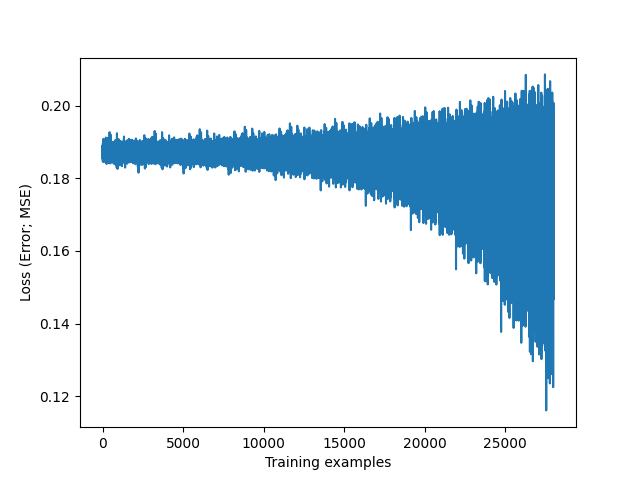
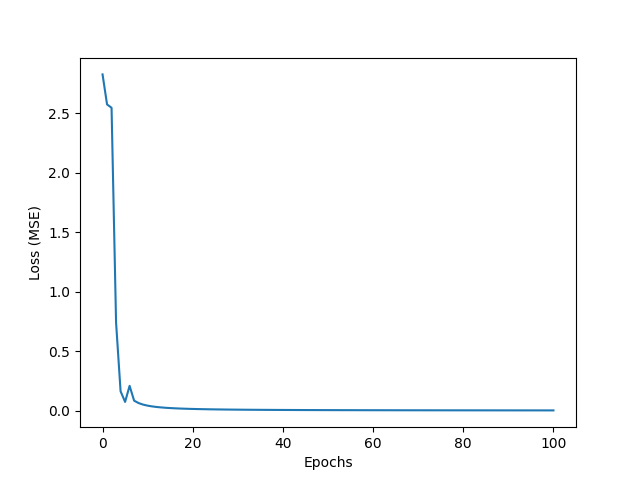
SNAPSHOT WORKING MODEL

diff --git a/Project 1/network_structures.py b/Project 1/network_structures.py
@@ -7,39 +7,7 @@ import numpy as np
 import matplotlib.pyplot as plt
 
 from nn_functions import d_cross_entropy, d_identity, d_mse, d_relu, d_sigmoid, d_tanh
-from picture_generator import PictureGenerator
-np.random.seed(123)
 
-x1 = 0.4
-x2 = 0.1
-x3 = 0.8
-
-y1 = 0.4
-y2 = 0.3
-
-z1 = 0.4
-
-X = np.array([x1,x2,x3]).reshape(3,1)
-Y = np.array([y1,y2]).reshape(2,1)
-Z = np.array([z1]).reshape(1,1)
-
-v11 = 0.1
-v12 = 0.2
-v21 = 0.5
-v22 = 0.4
-v31 = 0.3
-v32 = 0.2
-
-Y_weights = np.array([
-    [v11, v12],
-    [v21, v22],
-    [v31, v32]
-])
-
-w11 = 0.2
-w21 = 0.1
-
-Z_weights = np.array([w11, w21]).reshape(2,1)
 
 # Dict containing the mappings from functions to their derivatives
 function_map = {
@@ -93,9 +61,9 @@ class Layer:
         activations = self.a_func(output)
         # Check if we need to expand the dimensions of the results
         if len(activations.shape) == 1:
-            activations = activations[:,np.newaxis]
+            activations = activations[:, np.newaxis]
         if len(node_values.shape) == 1:
-            node_values = node_values[:,np.newaxis]
+            node_values = node_values[:, np.newaxis]
         # Now store the values for use in backprop
         self.activations, self.prv_layer_inputs = activations, node_values
         return activations
@@ -142,12 +110,12 @@ class Layer:
         """
         diag_J_sum = self.da_func(self.activations[:, column])
         # Return object corresponds to J-hat; einsum is outer product
-        return np.einsum('i,j->ij', self.prv_layer_inputs[:,column], diag_J_sum)
+        return np.einsum('i,j->ij', self.prv_layer_inputs[:, column], diag_J_sum)
 
     def update_weights(self, jacobian: np.ndarray, lr: float) -> None:
         assert jacobian.shape == self.weights.shape, "Jacobian weight matrix and weights are not the same shape"
         self.weights = self.weights - lr * jacobian
-    
+
     def __eq__(self, __o: object) -> bool:
         return np.all(self.weights == __o.weights)
 
@@ -166,6 +134,7 @@ class NeuralNetwork:
                 Integer describing the number of examples to operate on simultaneously
 
         """
+        debug: bool = config["Debug"]
         self.batch_size: int = config['Batch size']
         self.lr: float = config['Learning rate']
         self.inputs: int = config["Inputs"]
@@ -185,8 +154,8 @@ class NeuralNetwork:
             func = hl_funcs[i]
             d_func = function_map[func.__name__]
             w_shape = (n, m)
-            b_shape = (m,1)
-            weights = np.random.uniform(low=-0.1, high=0.1, size=w_shape)
+            b_shape = (m, 1)
+            weights = np.random.uniform(low=-0.1, high=0.1, size=w_shape) if not debug else np.ones(shape=w_shape)
             biases = np.zeros(shape=b_shape)
             self.hidden_layers.append(Layer(func, d_func, weights, biases))
             # Set the next n value for correct dimensions in the next weight matrix
@@ -195,8 +164,8 @@ class NeuralNetwork:
         output_func: Callable = config['Output function']
         d_output_func: Callable = function_map[output_func.__name__]
         w_shape = (n, m)
-        b_shape = (m,1)
-        weights = np.random.uniform(low=-0.1, high=0.1, size=w_shape)
+        b_shape = (m, 1)
+        weights = np.random.uniform(low=-0.1, high=0.1, size=w_shape) if not debug else np.ones(shape=w_shape)
         # weights = Z_weights
         biases = np.zeros(shape=b_shape)
         final_layer = Layer(output_func, d_output_func, weights, biases)
@@ -211,6 +180,9 @@ class NeuralNetwork:
             func, d_func = output_func, d_output_func
             self.output_layer = Layer(
                 func, d_func, weights, biases, softmax=True)
+        
+
+        self.debug_list = []
 
     def forward_pass(self, network_inputs: np.ndarray) -> None:
         # Get the first layer activations for use in the later layers
@@ -222,7 +194,7 @@ class NeuralNetwork:
 
     def get_loss_jacobian(self, targets: np.ndarray) -> np.ndarray:
         predictions = self.output_layer.activations
-        return self.dl_func(predictions, targets, self.output_layer.a_func.__name__=="sigmoid")
+        return self.dl_func(predictions, targets, self.output_layer.a_func.__name__ == "sigmoid")
 
     def backpropagation(self, targets: np.ndarray) -> None:
         # Debugging
@@ -236,11 +208,13 @@ class NeuralNetwork:
             first_layer = self.hidden_layers[-1]
         J_hat_zw = first_layer.get_J_hat_zw()
         # Finally get the jacobian matrix for the actual weights in the current layer
-        J_lw = J_lz.T * J_hat_zw
+        J_lw = J_hat_zw * J_lz.T
         # Debugging
         assert J_lw.shape == first_layer.weights.shape
-        first_layer.update_weights(J_lw, self.lr)
+        # Try to get the output jacobian BEFORE updating the weights
         J_zy = first_layer.get_output_jacobian()
+        first_layer.update_weights(J_lw, self.lr)
+        # J_zy = first_layer.get_output_jacobian()
         # Now propagate backwards through the hidden layers
         J_ly = np.dot(J_lz.T, J_zy)
         for current_layer in reversed(self.hidden_layers):
@@ -250,37 +224,45 @@ class NeuralNetwork:
             J_hat_yw = current_layer.get_J_hat_zw()
             J_lv = J_ly * J_hat_yw
             assert J_lv.shape == current_layer.weights.shape
-            current_layer.update_weights(J_lv, self.lr)
             J_yx = current_layer.get_output_jacobian()
+            current_layer.update_weights(J_lv, self.lr)
             J_ly = np.dot(J_ly, J_yx)
-    
+
     def train(self, training_data: List[np.ndarray], training_targets: List[np.ndarray]) -> None:
-        epochs = 10
+        epochs = 100
         # For some reason, storing np arrays in lists, and then getting them out from the list again
         # turns the arrays into lists. Sucks, but I gotta turn them back into arrays another time
-        assert len(training_data) == len(training_targets), "Training data and solutions must have same length"
-        assert np.array(training_data[0]).shape[0] == self.inputs, "Inputs to the network much match config parameter 'Inputs' (array shape does not match)"
+        assert len(training_data) == len(
+            training_targets), "Training data and solutions must have same length"
+        assert np.array(
+            training_data[0]).shape[0] == self.inputs, "Inputs to the network much match config parameter 'Inputs' (array shape does not match)"
         assert np.array(training_targets[0]).shape[0] == self.outputs
         for k in range(epochs):
             for i in range(len(training_data)):
                 inputs = np.array(training_data[i])
                 targets = np.array(training_targets[i])
                 self.forward_pass(inputs)
-                self.training_loss.append(self.l_func(self.output_layer.activations, targets))
+                loss = self.l_func(self.output_layer.activations, targets)
+                if loss >= 0.4:
+                    self.debug_list.append(targets)
+                if i == 0 and k == 0:
+                    self.training_loss.append(loss)
                 self.backpropagation(targets)
             if (k+1) % int(epochs * 0.1) == 0:
                 print(f"Progress: {int((k+1)/epochs * 100)}%")
-    
+            self.training_loss.append(loss)
+
     def predict(self, example: np.ndarray) -> np.ndarray:
         assert example.shape[0] == self.inputs, "Cannot predict data that doesn't match input shape"
         self.forward_pass(example)
+        print(f"Output layer function: {self.output_layer.a_func.__name__}")
         return self.output_layer.activations
-    
+
     def visualize_training_losses(self) -> None:
         x_axis = range(0, len(self.training_loss))
         plt.plot(x_axis, self.training_loss)
-        plt.xlabel("Training examples")
-        plt.ylabel("Loss (Error; MSE)")
+        plt.xlabel("Epochs")
+        plt.ylabel("Loss (MSE)")
         plt.savefig('./Figures/TRAINING_LOSS_FIRST_ATTEMPT.png')
         plt.show()
 

diff --git a/Project 1/nn_functions.py b/Project 1/nn_functions.py
@@ -8,7 +8,7 @@ def sigmoid(input_vector: np.ndarray) -> np.ndarray:
     Sigmoid activation function, rest of docstring unnecessary seeing as it
     becomes larger than the function itself.
     """
-    return 1 / (1 + np.exp(input_vector))
+    return 1 / (1 + np.exp(-input_vector))
 
 
 def relu(input_vector: np.ndarray) -> np.ndarray:
@@ -89,29 +89,33 @@ def cross_entropy(predictions: np.ndarray, targets: np.ndarray, sigmoid: bool = 
         float: Array of cross-entropy loss of all predictions compared to target
     """
     assert predictions.shape == targets.shape, "Predictions and targets must have same shapes"
-    # f(x) = 1 - x
-    # Formula: log(predictions) * targets + f(predictions) * f(targets)
-    # Function that returns array with 1 - x for all elements x
-    def f(x): return 1 - x
-    # Tweak the input array just to assure we don't perform log(0)
     epsilon = 1e-12
-    predictions = np.clip(predictions, epsilon, 1-epsilon)
-    # If sigmoid -> binary values are 0.9 and 0.1
-    if sigmoid:
-        targets = np.clip(targets, 0.1, 0.9)
+    def safe_log(x): return 0 if x == 0 else np.log(x)
+    # # If sigmoid -> binary values are 0.9 and 0.1
+    # if sigmoid:
+    #     targets = np.clip(targets, 0.1, 0.9)
     # If our input is 1-dimensional:
     if len(predictions.shape) == 1:
         # Make the vectors 2D to work with einsum in the same way as SGD
         predictions = predictions.reshape(-1, 1)
-        targets = predictions.reshape(-1, 1)
-    # Note: einsum corresponds to column-wise dot product, so it's like extracting columns 2-and-2 and calculating the dot product between each pair
-    return np.einsum('ij,ij->j', np.log(predictions), targets) + np.einsum('ij,ij->j', np.log(f(predictions)), f(targets))
+        targets = targets.reshape(-1, 1)
+    predictions = np.clip(predictions, epsilon, 1. - epsilon)
+    loss = 0
+    for col in range(predictions.shape[0]):
+        for row in range(predictions.shape[1]):
+            predicted_value = predictions[col][row]
+            target_value = targets[col][row]
+            v1 = target_value * safe_log(predicted_value)
+            v2 = (1-target_value) * safe_log(1-predicted_value)
+            loss += v1 + v2
+    return -loss/predictions.shape[1]
+    
 
 
 def mse(predictions: np.ndarray, targets: np.ndarray, sigmoid: bool = False) -> np.ndarray:
     if sigmoid:
         targets = np.clip(targets, 0.1, 0.9)
-    return np.square(np.subtract(predictions, targets)).mean()
+    return np.mean(np.power(predictions-targets, 2))
 
 # And now the corresponding derivatives
 
@@ -133,12 +137,18 @@ def d_cross_entropy(predictions: np.ndarray, targets: np.ndarray, sigmoid: bool 
     # Again we need to clip in order to resist divide by 0 shenanigans
     epsilon = 1e-12
     predictions = np.clip(predictions, epsilon, 1-epsilon)
-    if sigmoid:
-        targets = np.clip(targets, 0.1, 0.9)
+    targets = np.clip(targets, epsilon, 1-epsilon)
+    # if sigmoid:
+    #     targets = np.clip(targets, 0.1, 0.9)
     return - (targets / predictions) + (func(targets) / func(predictions))
 
 
 def d_mse(predictions: np.ndarray, targets: np.ndarray, sigmoid: bool = False) -> np.ndarray:
     if sigmoid:
         targets = np.clip(targets, 0.1, 0.9)
-    return (predictions - targets) * 2/3
+    return (predictions - targets) * 2/predictions.shape[0]
+
+if __name__ == "__main__":
+    pred = np.array([0, 1, 1, 0]).reshape(4,1)
+    true = np.array([0, 0, 1, 0]).reshape(4,1)
+    print(cross_entropy(pred, true, True))

diff --git a/Project 1/testing_network.py b/Project 1/testing_network.py
@@ -5,18 +5,6 @@ from visualization import DrawNN
 from picture_generator import PictureGenerator
 from timeit import default_timer as timer
 
-config = {
-        "Inputs": 2500,
-        "Outputs": 4,
-        "Hidden layers": 2,
-        "HL Activation functions": [relu, relu],
-        "HL Neurons": [100, 20],
-        "Output function": softmax,
-        "Loss function": mse,
-        "Learning rate": 0.01,
-        "Batch size": 1,
-    }
-
 
 # User testing functions
 
@@ -30,7 +18,20 @@ def draw_network() -> None:
     network_vis.draw()
 
 def test_training() -> None:
+    config = {
+        "Inputs": 2500,
+        "Outputs": 4,
+        "Hidden layers": 1,
+        "HL Activation functions": [relu, relu],
+        "HL Neurons": [10, 20],
+        "Output function": sigmoid,
+        "Loss function": cross_entropy,
+        "Learning rate": 0.1,
+        "Batch size": 1,
+        "Debug": False
+    }
     network = NeuralNetwork(config)
+    print(network.output_layer.weights)
     pg_params = {
         "n": 50,
         "centered": False,
@@ -38,21 +39,43 @@ def test_training() -> None:
     pg = PictureGenerator(**pg_params)
     dataset = pg.get_datasets()
     print("Dataset fetched.")
-    training_data = dataset["training"]
-    training_targets = dataset["training_targets"]
+    training_data = dataset["training"][0:100]
+    training_targets = dataset["training_targets"][0:100]
     print(f"Starting training with {len(training_data)} training examples.")
     network.train(training_data, training_targets)
 
-    test_example = dataset["training"][502]
-    test_solution = dataset["training_targets"][502]
+    test_example = dataset["training"][30]
+    test_solution = dataset["training_targets"][30]
     prediction = network.predict(test_example)
     print(f"Final network prediction:\n \tTarget: {test_solution}\n \tPrediction: {prediction}\n \tLoss: {network.l_func(prediction, test_solution, sigmoid=True)}")
 
+    # print(f"Shitty result targets:\n {network.debug_list}")
     network.visualize_training_losses()
 
+
+
+def debug_network():
+    config = {
+        "Inputs": 3,
+        "Outputs": 2,
+        "Hidden layers": 0,
+        "HL Activation functions": [relu],
+        "HL Neurons": [2],
+        "Output function": sigmoid,
+        "Loss function": mse,
+        "Learning rate": 0.01,
+        "Batch size": 1,
+        "Debug": True
+    }
+    network = NeuralNetwork(config)
+    test_input = np.array([1,0,0]).reshape(3,1)
+    targets = np.array([1,0]).reshape(2,1)
+    network.forward_pass(test_input)
+    network.backpropagation(targets)
 
     
 
 
 if __name__ == '__main__':
+    # debug_network()
     test_training()
